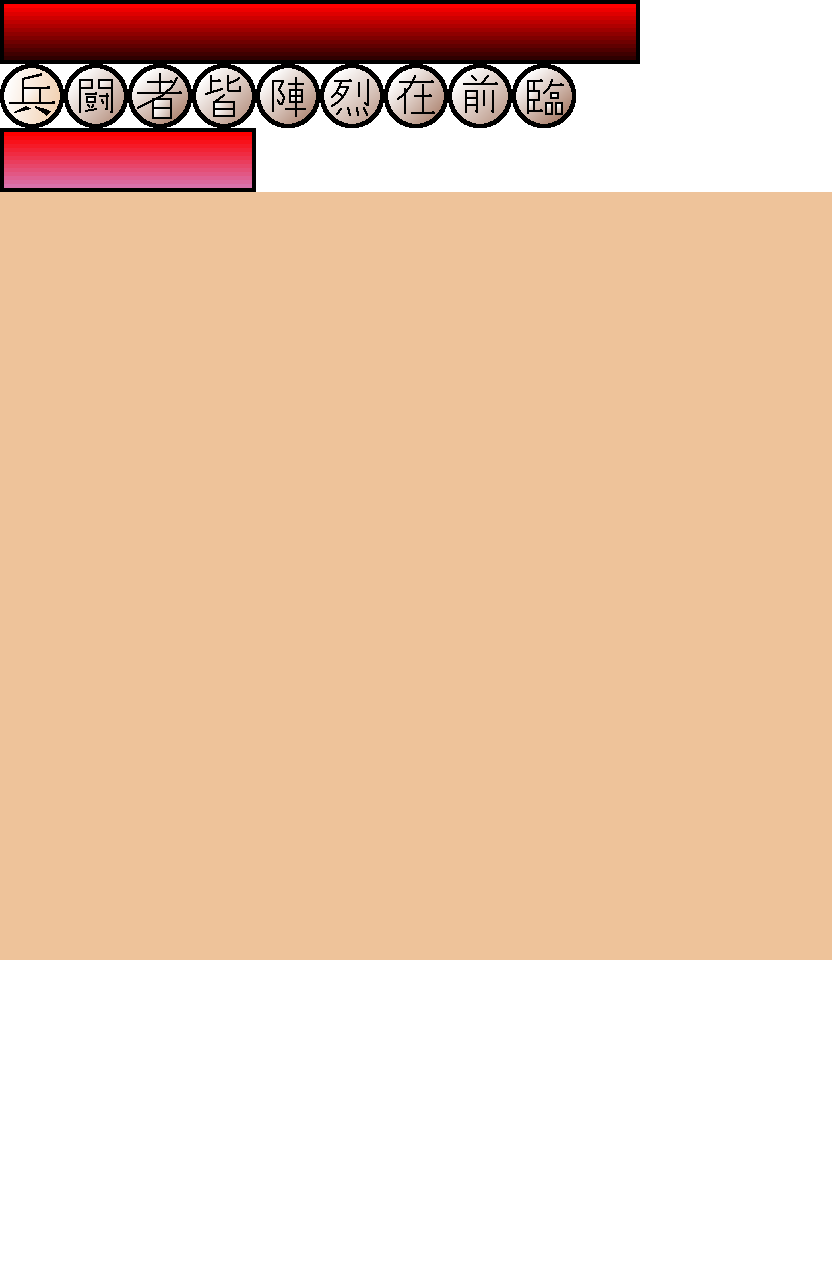
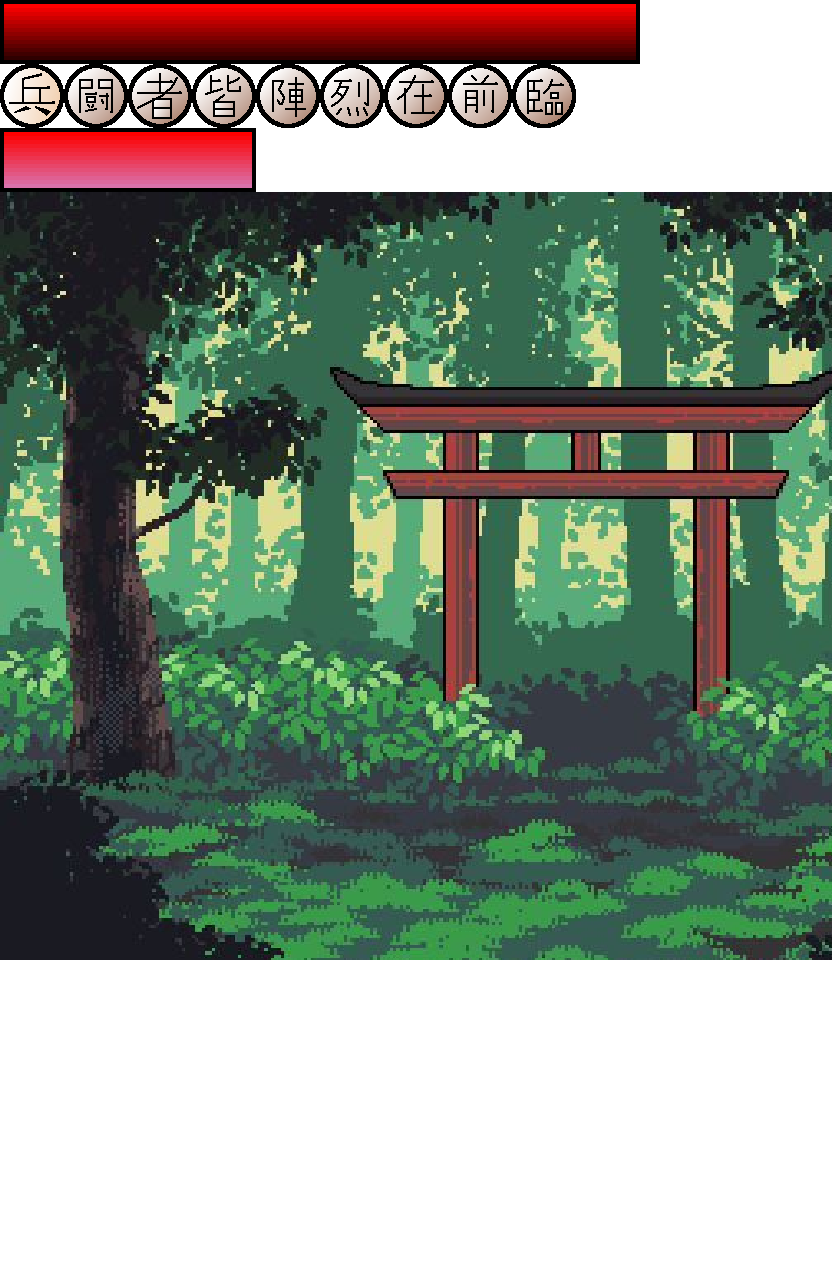
update: menuSecen の背景 を追加する

diff --git a/src/Engine/Scene/SceneManager.cpp b/src/Engine/Scene/SceneManager.cpp
@@ -94,20 +94,19 @@ namespace Engine::Scene {
         if (sceneStack_.empty()) return;
 
         // 描画は下から順に行い、下層シーンが見えるようにする（例：Pause の半透明マスク）
-        for (auto& s : sceneStack_) {
+        /*for (auto& s : sceneStack_) {
             s->Render();
-        }
+        }*/
 
         /*
-          TODO: SceneDef.renderUnderlay 制御
+          SceneDef.renderUnderlay 制御
           SceneDef.renderUnderlay に従って下層描画を制御する場合、
           上から逆順に走査し、最初に renderUnderlay == false のシーンに到達した時点で描画を止める
         */
-        /*
         int startIndex = static_cast<int>(sceneStack_.size()) - 1;
         for (int i = startIndex; i >= 0; --i) {
-            const Scene* s = sceneStack_[i].get();
-            const SceneDef* def = GetSceneDef(s->GetId());
+            const IScene* s = sceneStack_[i].get();
+            const SceneDef* def = GetSceneDef_(s->GetSceneId());
             if (!def || !def->stackBehavior.renderUnderlay) {
                 startIndex = i;
                 break;
@@ -118,6 +117,45 @@ namespace Engine::Scene {
         for (int i = startIndex; i < static_cast<int>(sceneStack_.size()); ++i) {
             sceneStack_[i]->Render();
         }
-        */
+    }
+
+    void SceneManager::HandleEvent(const std::string& sceneId, const std::string& eventId) {
+        if (sceneStack_.empty()) return;
+
+        const SceneDef* def = GetSceneDef_(sceneId);
+        if (!def) return;
+
+        const TransitionDef* trans = nullptr;
+        for (auto& t : def->transitions) {
+            if (t.eventId == eventId) {
+                trans = &t;
+                break;
+            }
+        }
+        if (!trans) return;
+
+        // event: "exit" → targetScene == null → 
+        if (trans->targetSceneId) {
+            // targetSceneId が指定されていない場合、ゲーム終了
+            // TODO: ゲーム終了処理
+            // g_shouldQuit = true;  //Game::Quit();
+            return;
+        } else {
+            const SceneDef* targetDef = GetSceneDef_(trans->targetSceneId.value());
+            if (!targetDef) return;
+
+            if (targetDef->stackBehavior.mode == StackBehaviorMode::Exclusive) {
+                // go to 新しいシーンへ完全切り替え
+                ChangeScene(targetDef->sceneId);
+                // TODO: levelId が指定されていればレベルをセット
+                // GameScene.SetStartLevel(trans->levelId);
+
+            } else {
+                // overlay でシーンを重ねる
+                PushScene(targetDef->sceneId);
+            }
+        }
+
+        
     }
 } // namespace Engine::Scene

diff --git a/include/Engine/Scene/MetaData/SceneMeta.hpp b/include/Engine/Scene/MetaData/SceneMeta.hpp
@@ -30,8 +30,8 @@ namespace Engine::Scene {
 
     struct TransitionDef {
         std::string eventId; // fade_in, fade_out, slide_left, slide_right, etc.
-        std::string targetSceneId;
-        std::string levelId; // optional, if the transition involves loading a new level
+        std::optional<std::string> targetSceneId;
+        std::optional<std::string> levelId; // optional, if the transition involves loading a new level
     };
 
     struct SceneDef {
@@ -56,11 +56,19 @@ namespace Engine::Scene {
         if (j.contains("eventId") && !j.at("eventId").empty()) {
             j.at("eventId").get_to(data.eventId);
         }
-        if (j.contains("targetSceneId") && !j.at("targetSceneId").empty()) {
-            j.at("targetSceneId").get_to(data.targetSceneId);
+        if (j.contains("targetSceneId")) {
+            if (j.at("targetSceneId").is_null()) {
+                data.targetSceneId = std::nullopt;
+            } else {
+                data.targetSceneId = j.at("targetSceneId").get<std::string>();
+            }
         }
         if (j.contains("levelId") && !j.at("levelId").empty()) {
-            j.at("levelId").get_to(data.levelId);
+            if (j.at("levelId").is_null()) {
+                data.levelId = std::nullopt;
+            } else {
+                data.levelId = j.at("levelId").get<std::string>();
+            }
         }
     }
 

diff --git a/include/Engine/Asset/Data/LevelData.hpp b/include/Engine/Asset/Data/LevelData.hpp
@@ -100,23 +100,23 @@ namespace Engine::Asset {
         j.at("type").get_to(cmd.type);
         if (j.contains("actor")) {
             if (j.at("actor").is_null()) {
-                cmd.next = std::nullopt;
+                cmd.actor = std::nullopt;
             } else {
-                cmd.next = j.at("actor").get<std::string>();
+                cmd.actor = j.at("actor").get<std::string>();
             }
         }
         if (j.contains("id")) {
             if (j.at("id").is_null()) {
-                cmd.next = std::nullopt;
+                cmd.id = std::nullopt;
             } else {
-                cmd.next = j.at("id").get<std::string>();
+                cmd.id = j.at("id").get<std::string>();
             }
         }
         if (j.contains("condition")) {
             if (j.at("condition").is_null()) {
-                cmd.next = std::nullopt;
+                cmd.condition = std::nullopt;
             } else {
-                cmd.next = j.at("condition").get<std::string>();
+                cmd.condition = j.at("condition").get<std::string>();
             }
         }
         if (j.contains("next")) {

diff --git a/include/Game/Scenes/MenuScene.hpp b/include/Game/Scenes/MenuScene.hpp
@@ -1,15 +1,12 @@
 #pragma once
 #include "Engine/Scene/IScene.hpp"
-#include "Engine/Scene/SceneManager.hpp"
-#include "Engine/Asset/AssetsManager.hpp"
-
-
+#include "Core/EngineAPI.hpp"
 
 namespace Game::Scenes {
 
     class MenuScene : public Engine::Scene::IScene {
     public:
-        //explicit MenuScene(Engine::Scene::SceneManager& scenes, Engine::Asset::AssetManager& assets) : scenes_(scenes), assets_(assets) {};
+        explicit MenuScene() = default;
         ~MenuScene() = default;
 
         void OnEnter() override;

diff --git a/include/Engine/EngineCore.hpp b/include/Engine/EngineCore.hpp
@@ -11,6 +11,8 @@ namespace Engine {
     public:
         void Init(const std::string& catalogPath, const std::string& scenesCatalogPath);
 
+        void RequestSceneEvent(const std::string& sceneId, const std::string& eventId);
+
         Asset::AssetManager& GetAssetManager() { return assets_; }
         Scene::SceneManager& GetSceneManager() { return scenes_; }
 

diff --git a/src/Core/EngineAPI.cpp b/src/Core/EngineAPI.cpp
@@ -8,6 +8,11 @@ namespace Engine {
         gEngine.Init(assetCatalogPath, scenesCatalogPath);
     }
 
+    void Update() {
+        
+        gEngine.Update(); // 仮にエンジンコアに Update メソッドがあるとする
+    }
+
     void RenderSprite(const Core::Vector2 position, const Asset::Sprite& sprite) {
         position;
         sprite;

diff --git a/include/Engine/Scene/SceneManager.hpp b/include/Engine/Scene/SceneManager.hpp
@@ -1,4 +1,5 @@
-#pragma once
+
+#pragma once
 #include <memory>
 #include <string>
 #include <vector>
@@ -23,6 +24,7 @@ namespace Engine::Scene {
 
         void Update(float dt);
         void Render();
+        void HandleEvent(const std::string& sceneId, const std::string& eventId);
 
         bool IsEmpty() const { return sceneStack_.empty(); }
 

diff --git a/src/Game/Scenes/MenuScene.cpp b/src/Game/Scenes/MenuScene.cpp
@@ -3,6 +3,7 @@
 namespace Game::Scenes {
     void MenuScene::OnEnter() {
         // シーンに入ったときの初期化処理をここに追加
+        //gEngine.GetAssetManager().Load<Engine::Asset::AnimationData>("data.sheet.ui.menu_cursor");
 
     }
     void MenuScene::OnExit() {

diff --git a/src/Engine/EngineCore.cpp b/src/Engine/EngineCore.cpp
@@ -46,6 +46,8 @@ namespace Engine {
         scenes_.ChangeScene("ui.menu");
     }
 
-
+    void EngineCore::RequestSceneEvent(const std::string& sceneId, const std::string& eventId) {
+        scenes_.HandleEvent(sceneId, eventId);
+    }
 
 }

diff --git a/src/Game/GameApp.cpp b/src/Game/GameApp.cpp
@@ -32,6 +32,8 @@ namespace Game {
 		player_.Update();
 		enemy_.Update();
 
+        gEngine.update();
+
 	} 
 
 	void GameApp::Render() {
